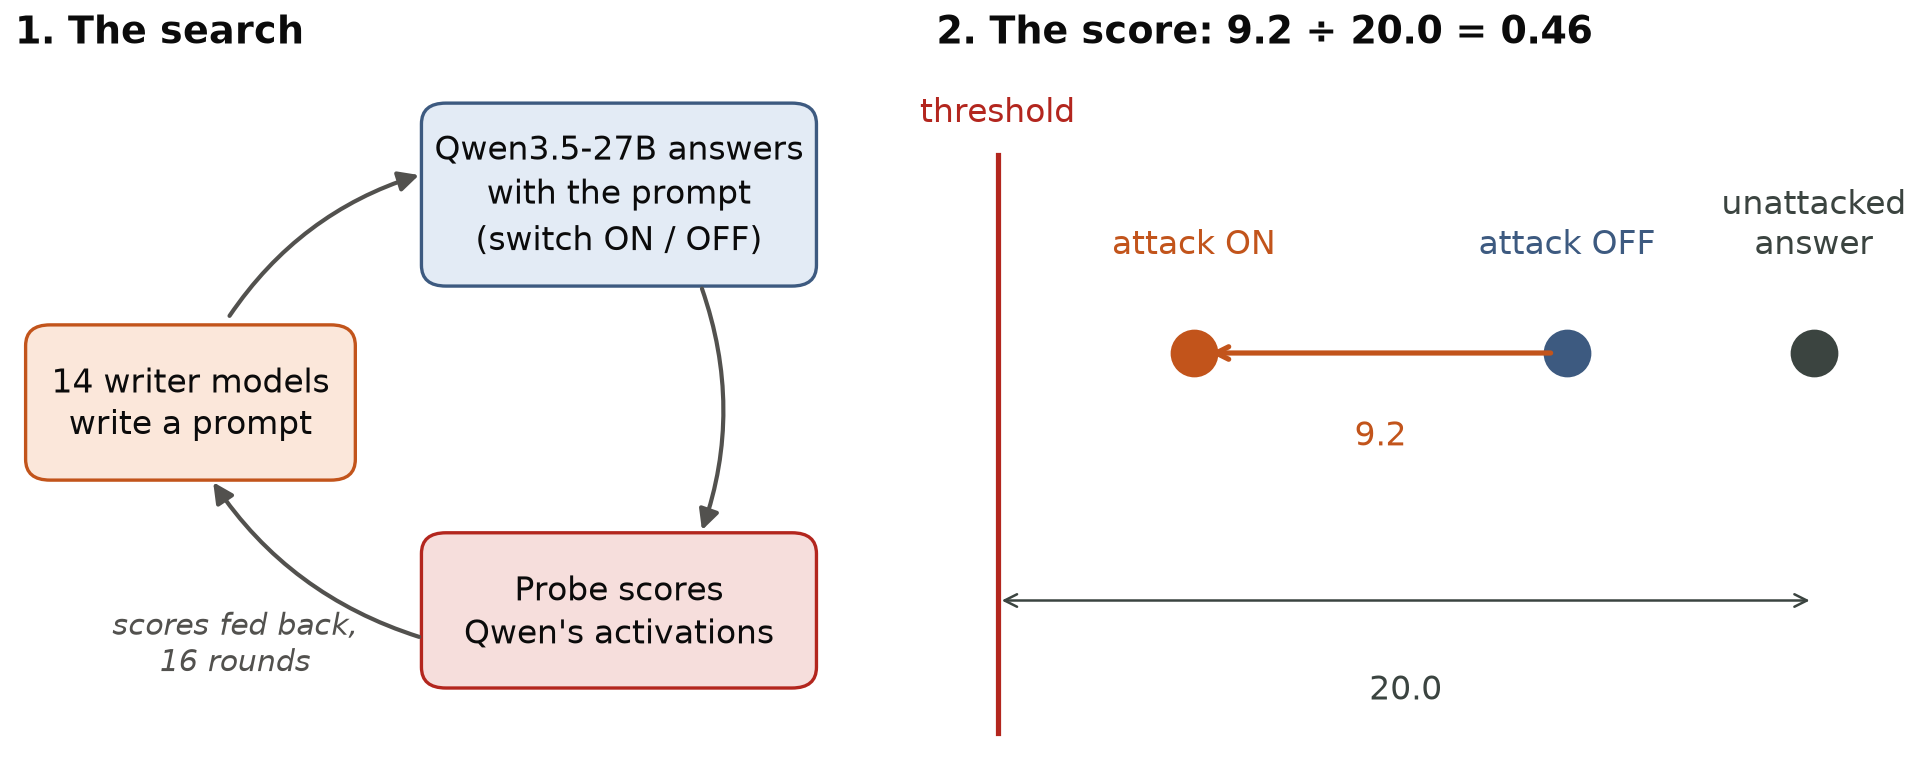
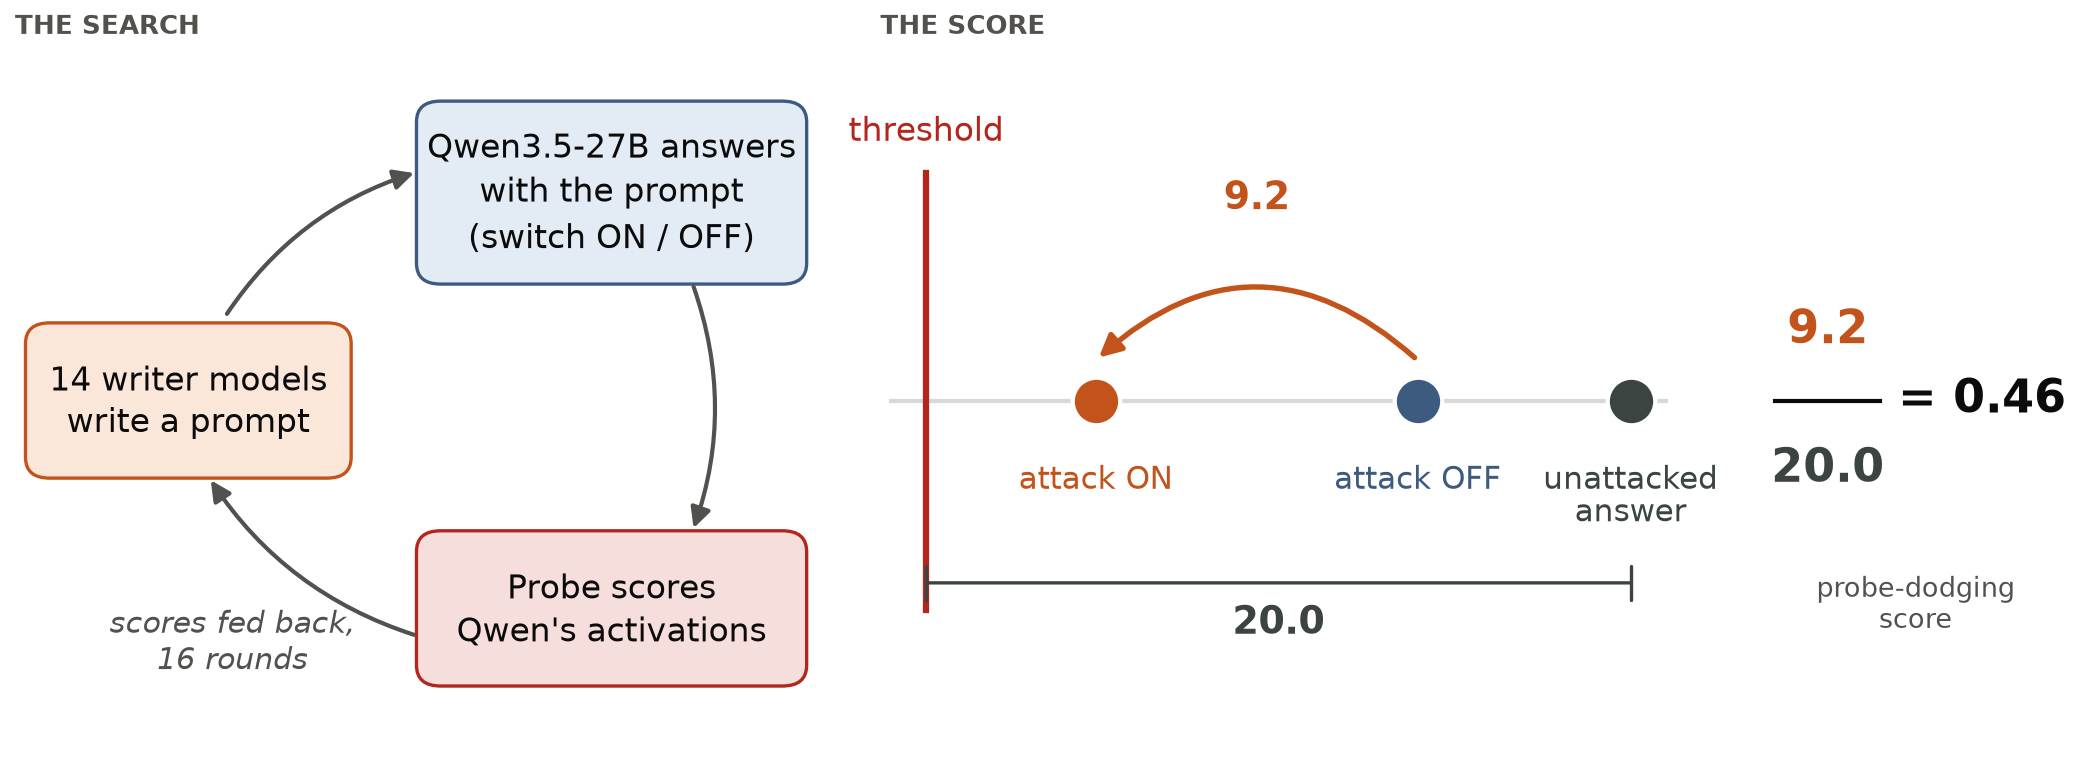
Method figure: number-line score with arc and bracket, score as a coloured fraction; quieter panel labels

diff --git a/analysis/post_v9/fig_method.py b/analysis/post_v9/fig_method.py
@@ -155,13 +155,47 @@ def version_3() -> None:
     save(fig, "method_v3.png")
 
 
+def draw_score_line(ax, fontsize: float = 16) -> None:
+    """The score as a number line: the three answers on a faint axis, the attack's move as an arc above, the distance from
+    an unattacked answer to the threshold as a bracket below, and the score as a fraction of the two."""
+    m, c = FIG.example_medians(), FIG.EXAMPLE_COLOURS
+    plain, off, on, line = m["plain"], m["off"], m["on"], m["line"]
+    left, right = line - 1.0, plain + 1.0
+    ax.plot([left, right], [0, 0], color="#d5dad8", lw=2, zorder=1)
+    ax.plot([line, line], [-1.15, 1.25], color=c["line"], lw=3, zorder=2)
+    ax.text(line, 1.38, "threshold", ha="center", va="bottom", fontsize=fontsize, color=c["line"])
+    for x, colour, label in ((on, c["on"], "attack ON"), (off, c["off"], "attack OFF"), (plain, c["plain"], "unattacked\nanswer")):
+        ax.scatter(x, 0, s=520, color=colour, zorder=3, edgecolors="white", linewidths=2)
+        ax.text(x, -0.32, label, ha="center", va="top", fontsize=fontsize - 1, color=colour, linespacing=1.15)
+    ax.add_patch(FancyArrowPatch((off, 0.22), (on, 0.22), arrowstyle="-|>", mutation_scale=22, color=c["on"], lw=2.6,
+                                 connectionstyle="arc3,rad=0.45", zorder=2))
+    ax.text((on + off) / 2, 1.0, f"{off - on:.1f}", ha="center", va="bottom", fontsize=fontsize + 2, color=c["on"], fontweight="bold")
+    ax.annotate("", xy=(line, -1.0), xytext=(plain, -1.0), arrowprops=dict(arrowstyle="|-|", color=c["plain"], lw=1.6,
+                                                                           shrinkA=0, shrinkB=0, mutation_scale=8))
+    ax.text((line + plain) / 2, -1.12, f"{plain - line:.1f}", ha="center", va="top", fontsize=fontsize + 2, color=c["plain"], fontweight="bold")
+    # the score as a fraction, to the right of the line
+    fx = right + 4.6
+    ax.text(fx, 0.38, f"{off - on:.1f}", ha="center", va="center", fontsize=fontsize + 6, color=c["on"], fontweight="bold")
+    ax.plot([fx - 1.5, fx + 1.5], [0, 0], color=TEXT, lw=2)
+    ax.text(fx, -0.38, f"{plain - line:.1f}", ha="center", va="center", fontsize=fontsize + 6, color=c["plain"], fontweight="bold")
+    ax.text(fx + 2.0, 0, f"= {(off - on) / (plain - line):.2f}", ha="left", va="center", fontsize=fontsize + 6, color=TEXT, fontweight="bold")
+    ax.text(fx + 2.5, -0.95, "probe-dodging\nscore", ha="center", va="top", fontsize=fontsize - 3, color=MUTED, linespacing=1.15)
+    ax.set_xlim(left - 0.3, fx + 6.3)
+    ax.set_ylim(-1.9, 1.9)
+    ax.axis("off")
+
+
+def panel_label(ax, text: str) -> None:
+    ax.text(0.0, 1.02, text.upper(), transform=ax.transAxes, fontsize=12.5, color=MUTED, fontweight="bold", va="bottom")
+
+
 def search_and_score() -> None:
     """Two panels only, large text: the search loop, and what the score measures (the threshold is explained in words)."""
-    fig, axes = plt.subplots(1, 2, figsize=(16, 6), gridspec_kw={"width_ratios": [1, 1.15], "wspace": 0.12})
+    fig, axes = plt.subplots(1, 2, figsize=(17.5, 6), gridspec_kw={"width_ratios": [1, 1.45], "wspace": 0.06})
     draw_loop(axes[0], fontsize=16)
-    FIG.draw_score(axes[1], fontsize=16, dot_size=480, positive_label="unattacked\nanswer")
-    step_title(axes[0], "1. The search", fontsize=18)
-    step_title(axes[1], "2. The score: 9.2 ÷ 20.0 = 0.46", fontsize=18)
+    draw_score_line(axes[1])
+    panel_label(axes[0], "The search")
+    panel_label(axes[1], "The score")
     save(fig, "method_search_score.png")
 
 
